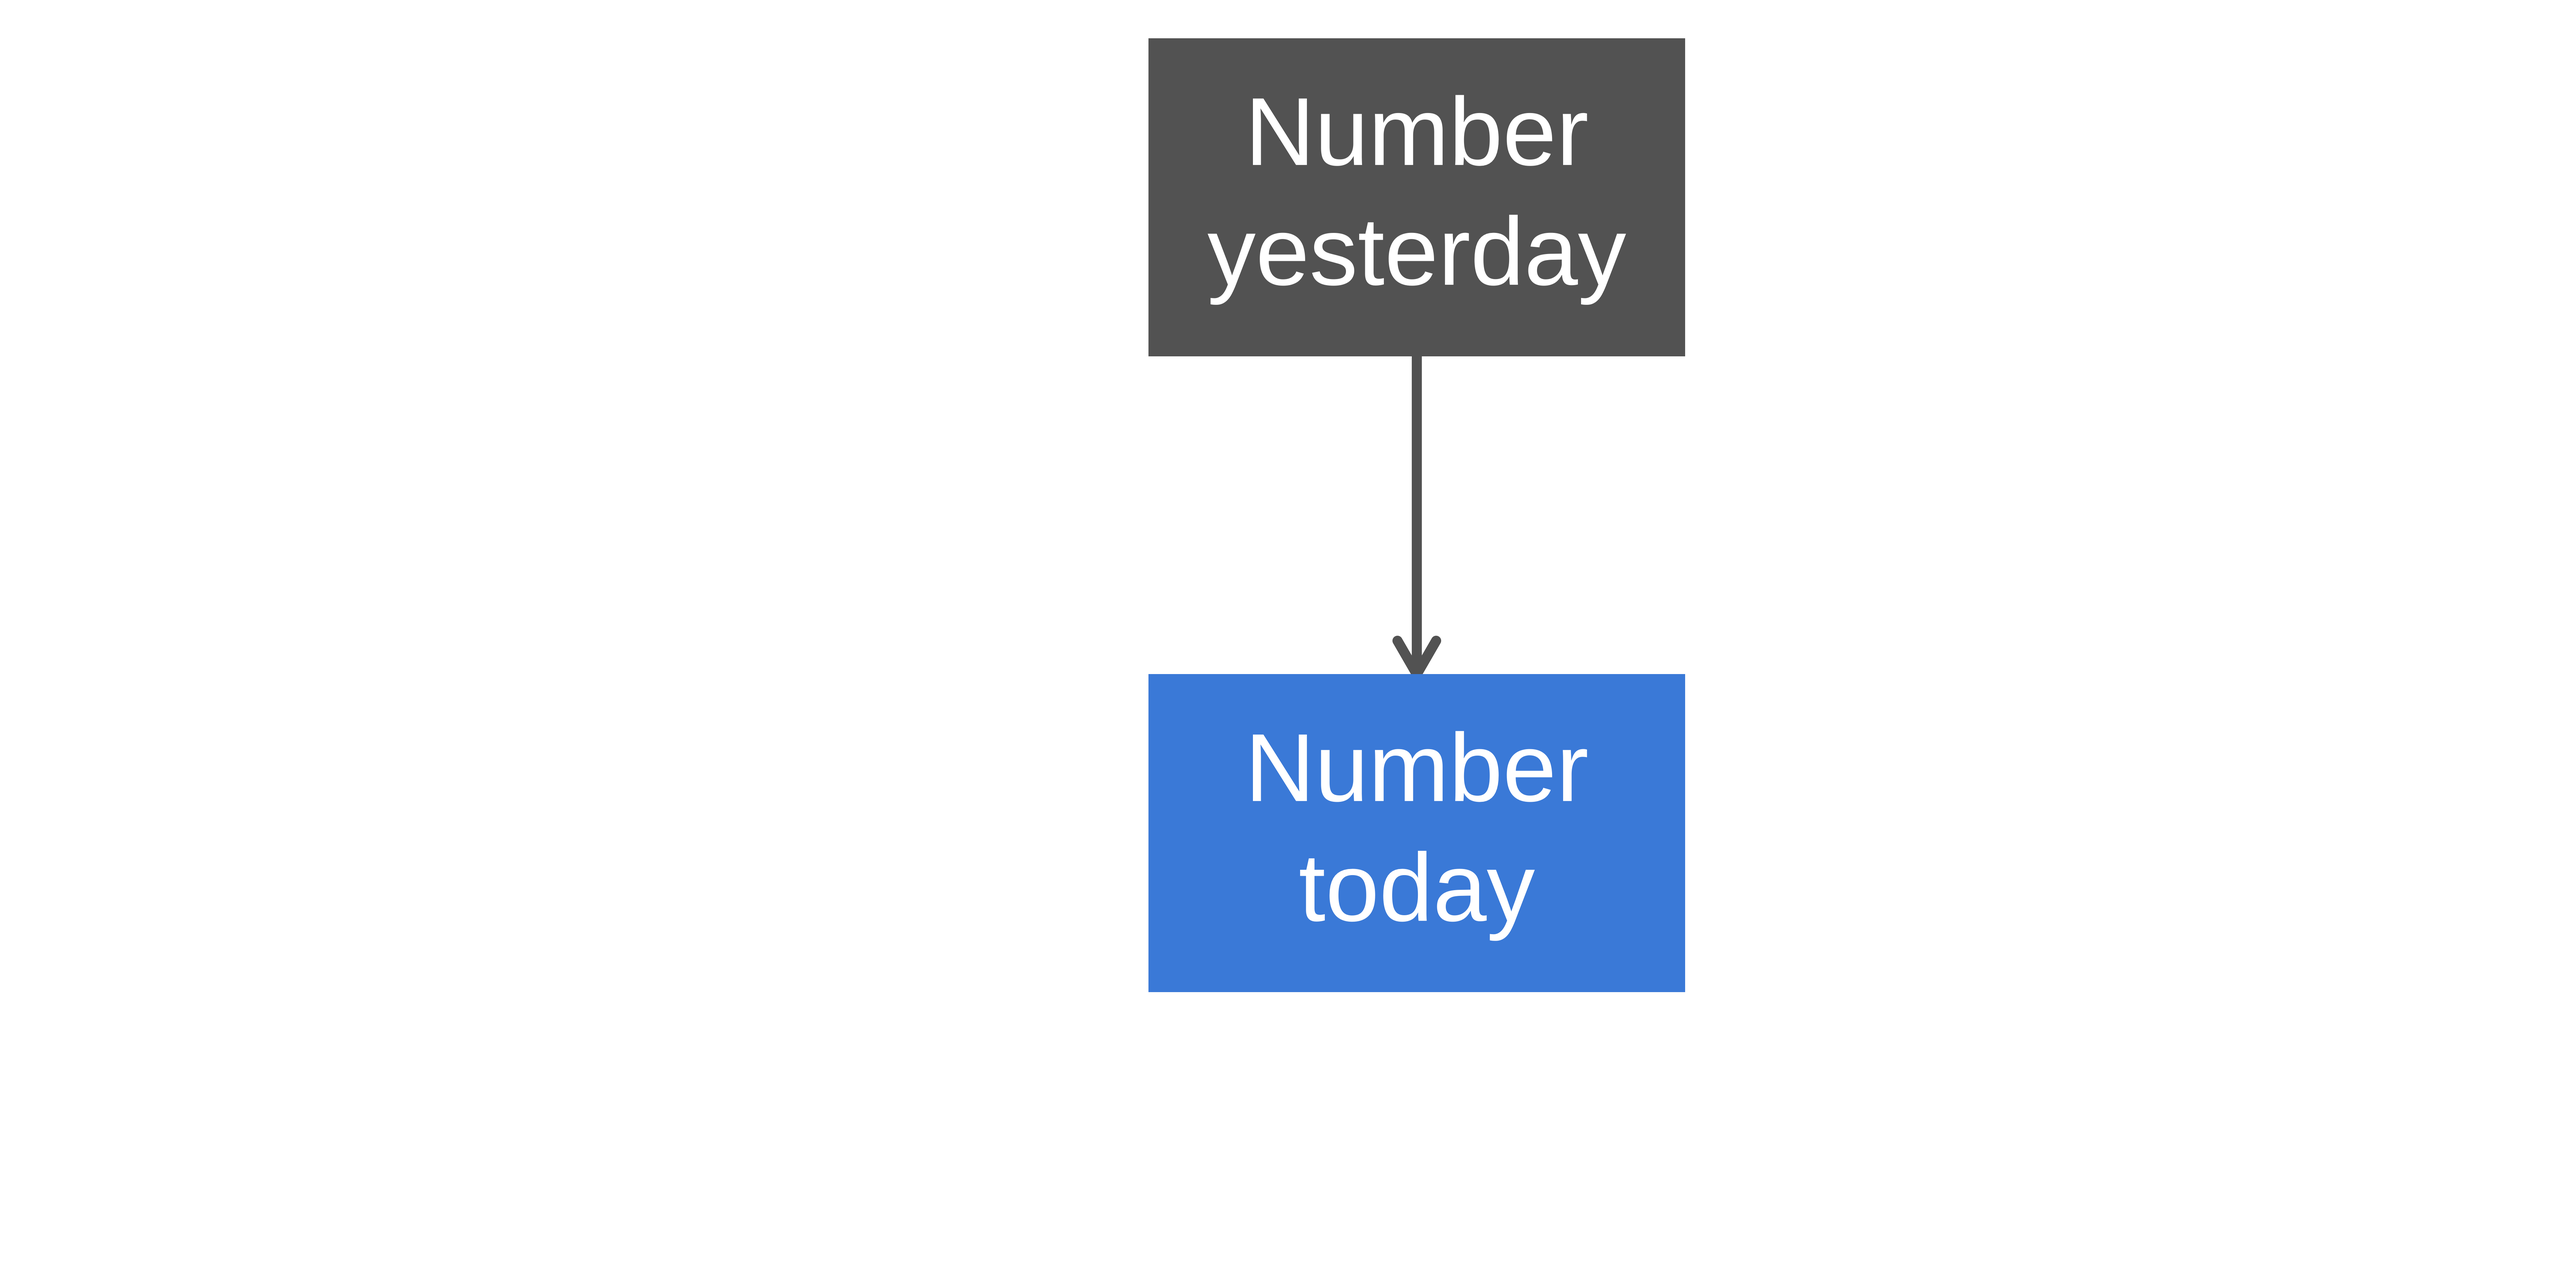
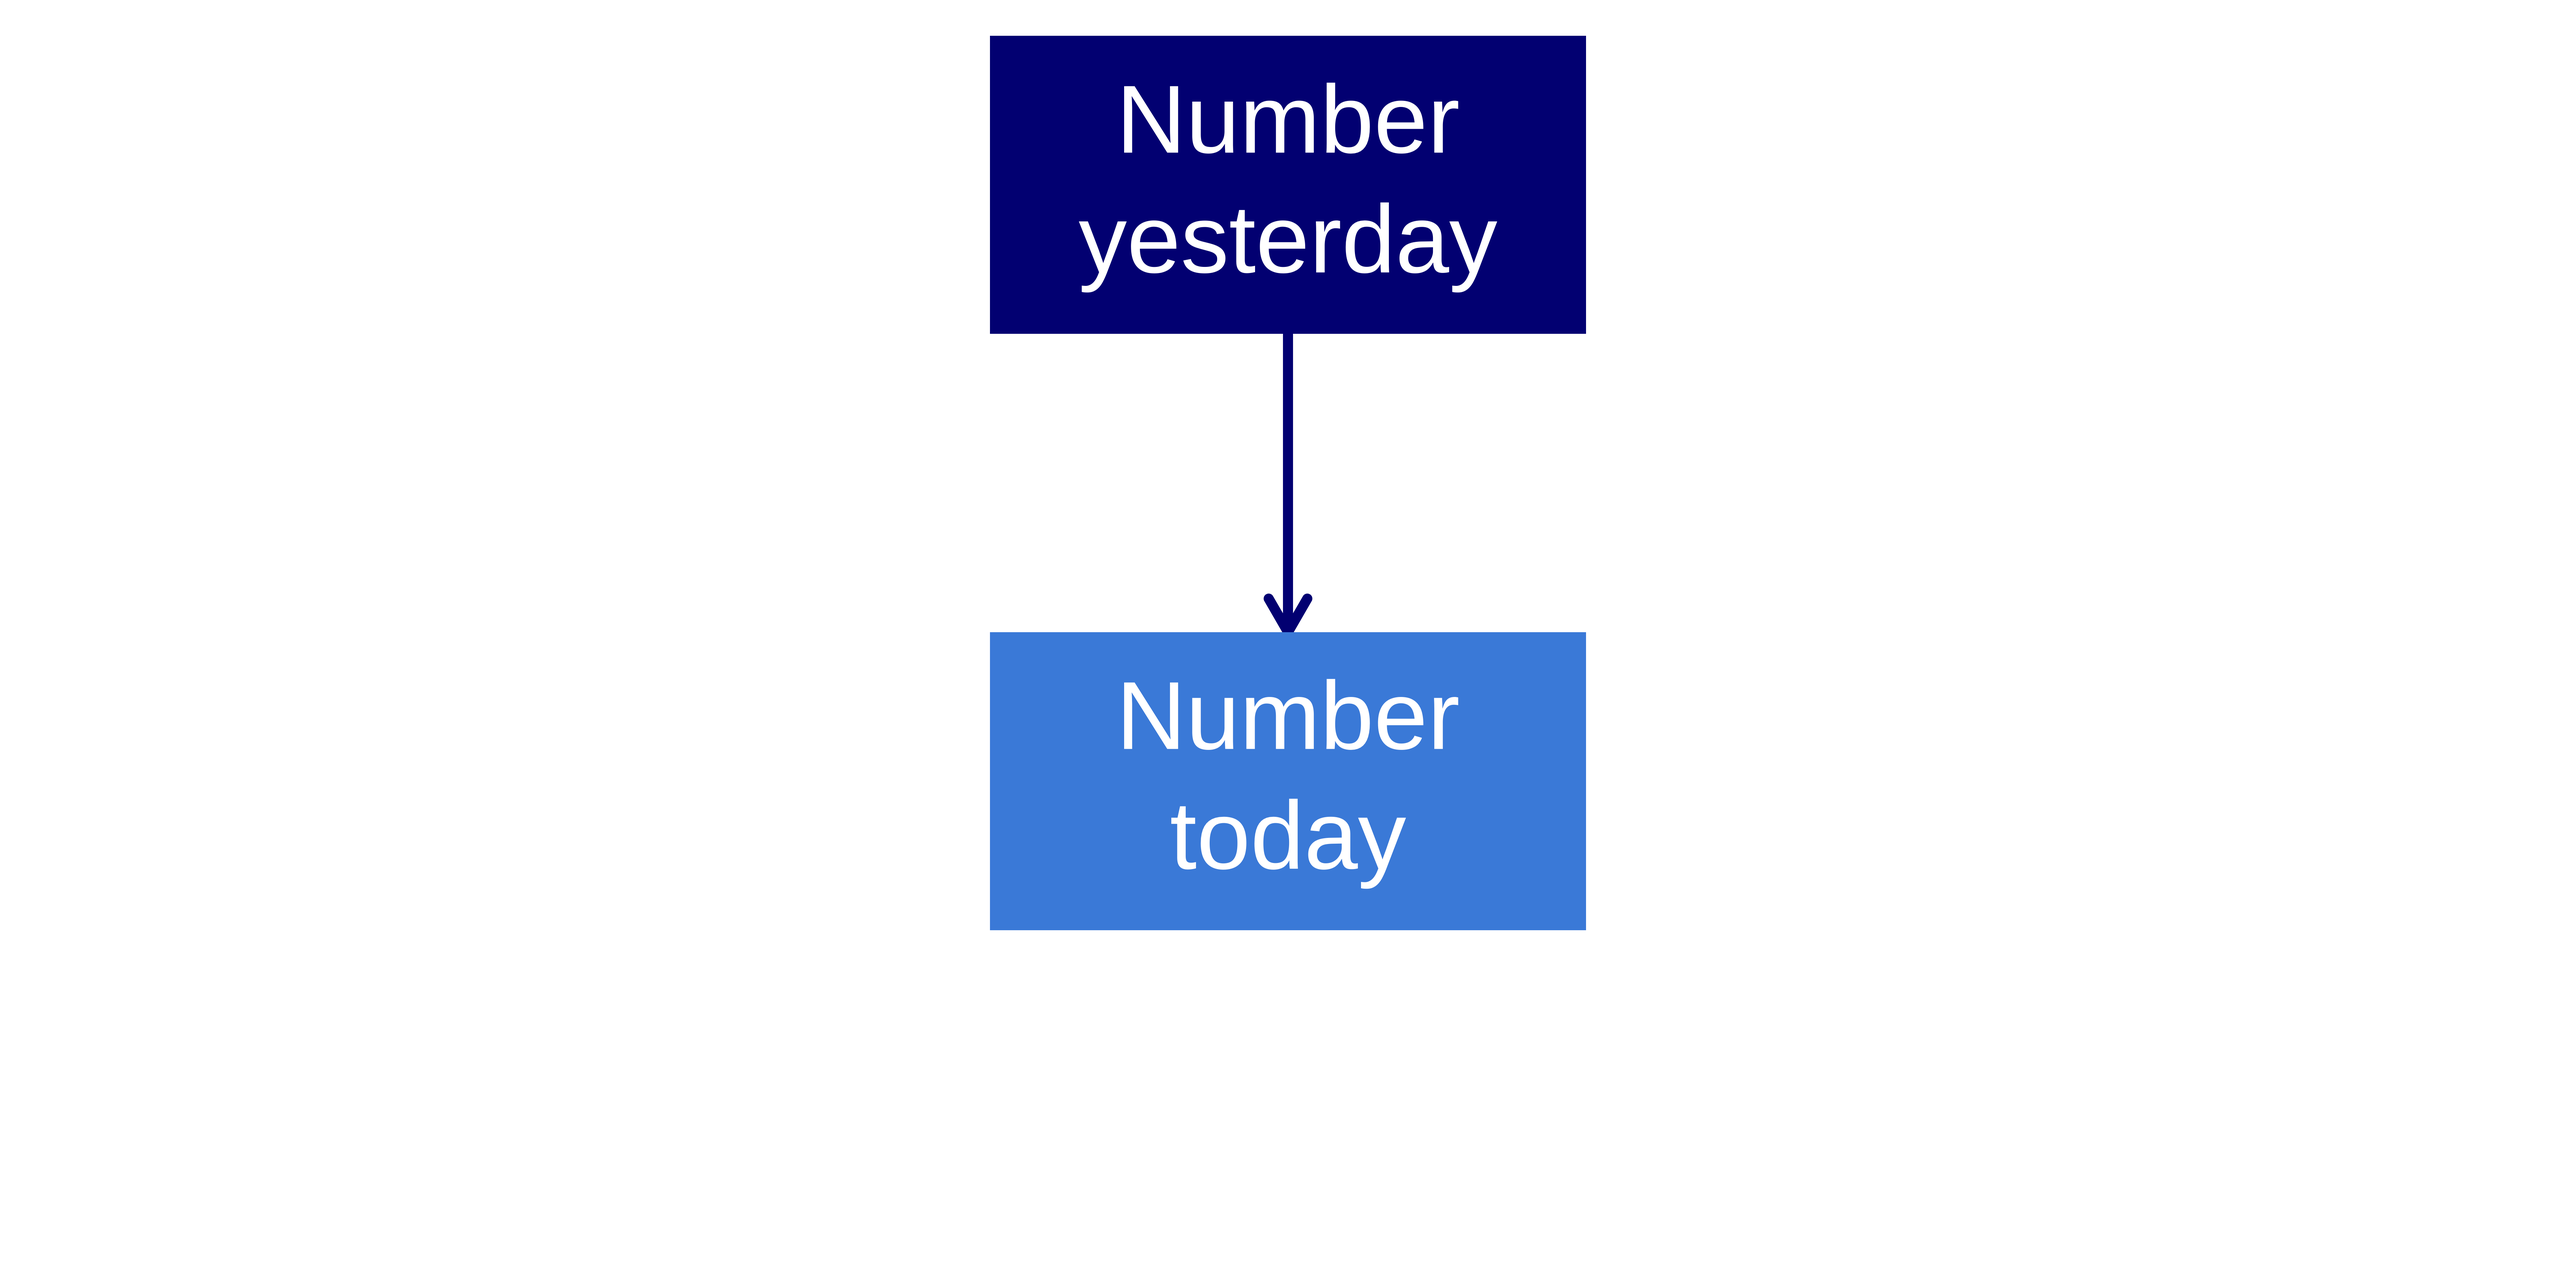
updated popn drivers overview

Changed region(s): [[0.375, 0.0, 0.6562, 0.7778]]

diff --git a/Scheuerell_WSN_2024.html b/Scheuerell_WSN_2024.html
@@ -3,7 +3,7 @@
   <head>
     <title>Effects of species interactions and environmental drivers on community stability</title>
     <meta charset="utf-8" />
-    <meta name="author" content="U.S. Geological Survey Washington Cooperative Fish and Wildlife Research Unit School of Aquatic and Fishery Sciences University of Washington" />
+    <meta name="author" content="U.S. Geological Survey Washington Cooperative Fish and Wildlife Research Unit  School of Aquatic and Fishery Sciences University of Washington" />
     <script src="Scheuerell_WSN_2024_files/header-attrs/header-attrs.js"></script>
     <link rel="stylesheet" href="xaringan-themer.css" type="text/css" />
     <link rel="stylesheet" href="my-theme.css" type="text/css" />
@@ -19,7 +19,7 @@ class: center, middle, inverse, title-slide
 ## Mark Scheuerell
 ]
 .author[
-### U.S. Geological Survey<br>Washington Cooperative Fish and Wildlife Research Unit<br>School of Aquatic and Fishery Sciences<br>University of Washington
+### U.S. Geological Survey<br>Washington Cooperative Fish and Wildlife Research Unit<br><br>School of Aquatic and Fishery Sciences<br>University of Washington
 ]
 
 ---
@@ -31,9 +31,11 @@ class: center, middle, inverse, title-slide
 
 # Acknowledgments
 
-## .blue[ Elizabeth "Eli" Holmes (NOAA) ]
+&gt; ## .blue[ Elizabeth "Eli" Holmes (NOAA) ]
 
-## .blue[ Eric Ward (NOAA) ]
+&gt; ## .blue[ Eric Ward (NOAA) ]
+
+&gt; ## .blue[ Various others ]
 
 ---
 
@@ -208,11 +210,11 @@ class: center, middle, inverse
 
 ---
 
-class: inverse-black, bottom, center
+class: inverse-black, middle, center
 background-image: url(figs/sockeye.jpg)
 background-size: cover
 
-# .white[How many sockeye are there?]
+# .white[How many sockeye salmon are there?]
 
 ---
 
@@ -222,11 +224,11 @@ class: center, middle, inverse
 
 ---
 
-class: inverse-black, bottom, center
+class: inverse-black, middle, center
 background-image: url(figs/sockeye.jpg)
 background-size: cover
 
-# .white[How many mayflies are there?]
+# .white.strong[How many mayflies are there?]
 
 
 ---
@@ -261,14 +263,14 @@ y_t = x_t + v_t$$`
 
 ---
 
-# Example states
+# Example of a state over time
 
 &lt;img src="Scheuerell_WSN_2024_files/figure-html/ex_ssm-1.png" width="100%" style="display: block; margin: auto;" /&gt;
 
 
 ---
 
-# Example states and observations
+# Example of states and observations over time
 
 &lt;img src="Scheuerell_WSN_2024_files/figure-html/ex_ssm_2-1.png" width="100%" style="display: block; margin: auto;" /&gt;
 
@@ -277,34 +279,53 @@ y_t = x_t + v_t$$`
 
 class: inverse, center, middle
 
-# Community dynamics
+# Changes in a community over time
 
 
 ---
 
-# Estimating community interactions
+# Assumptions &amp;#129300;
 
-### Number today is a function of the number yesterday
+&gt; ## .blue[ A community is composed of multiple populations ]
 
-&lt;img src="Scheuerell_WSN_2024_files/figure-html/MAR_diag_1-1.png" width="100%" height="100%" style="display: block; margin: auto;" /&gt;
+&gt; ## .blue[ Population sizes change over time]
+
+---
+
+# Model of population dynamics
+
+### .center[.blue[Number today] is a function of the .blue2[number yesterday]...&lt;sup&gt;&amp;nbsp;&lt;/sup&gt; ]
+
+&lt;img src="Scheuerell_WSN_2024_files/figure-html/MAR_diag_1-1.png" width="90%" height="90%" style="display: block; margin: auto;" /&gt;
 
 
 ---
 
-# Estimating community interactions
+# Model of population dynamics
 
-### and the number of predators, prey &amp; competitors
+### .center[ and .gray[parasites]&lt;sup&gt;*&lt;/sup&gt;, .gray[diseases, etc]... ]
 
-&lt;img src="Scheuerell_WSN_2024_files/figure-html/MAR_diag_2-1.png" width="100%" height="100%" style="display: block; margin: auto;" /&gt;
+&lt;img src="Scheuerell_WSN_2024_files/figure-html/MAR_diag_1b-1.png" width="90%" height="90%" style="display: block; margin: auto;" /&gt;
+
+### .citation[ &lt;sup&gt;*&lt;/sup&gt;C Wood, pers comm ]
 
 
 ---
 
-# State model for species interactions
+# Model of population dynamics
 
-### and external forces at various times
+### .center[and the number of .red[predators], .orange[prey] &amp; .purple[competitors]...&lt;sup&gt;&amp;nbsp;&lt;/sup&gt;]
 
-&lt;img src="Scheuerell_WSN_2024_files/figure-html/MAR_diag_3-1.png" width="100%" height="100%" style="display: block; margin: auto;" /&gt;
+&lt;img src="Scheuerell_WSN_2024_files/figure-html/MAR_diag_2-1.png" width="90%" height="90%" style="display: block; margin: auto;" /&gt;
+
+
+---
+
+# Model of population dynamics
+
+### .center[and .green[external forces] at varying time lags&lt;sup&gt;&amp;nbsp;&lt;/sup&gt;]
+
+&lt;img src="Scheuerell_WSN_2024_files/figure-html/MAR_diag_3-1.png" width="90%" height="90%" style="display: block; margin: auto;" /&gt;
 
 ---
 
